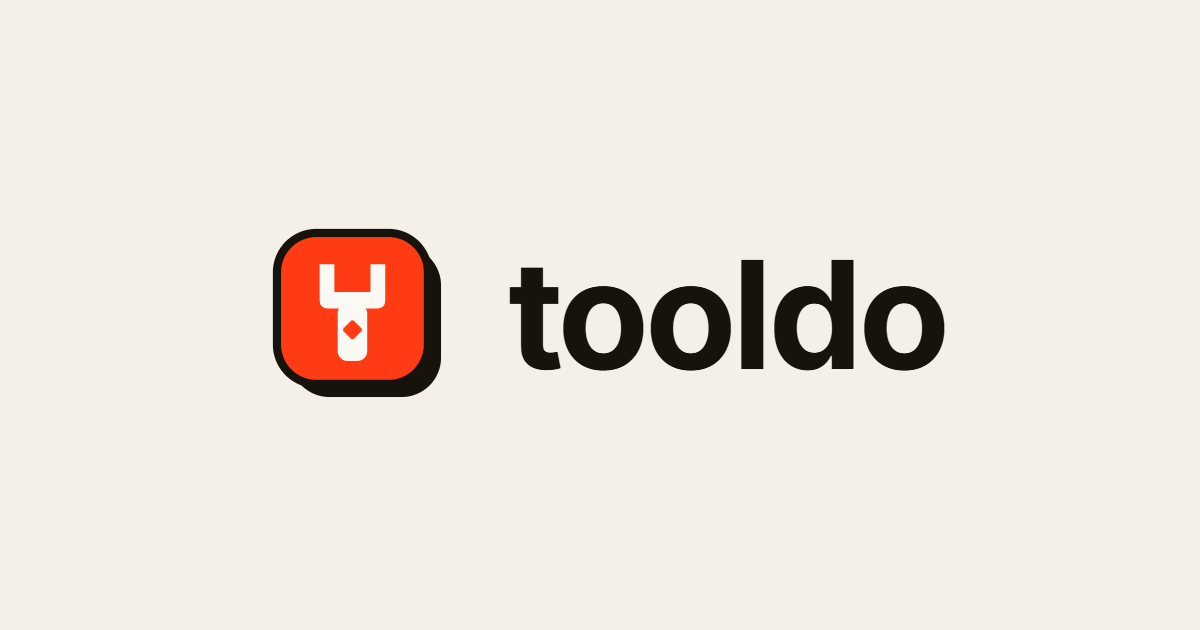
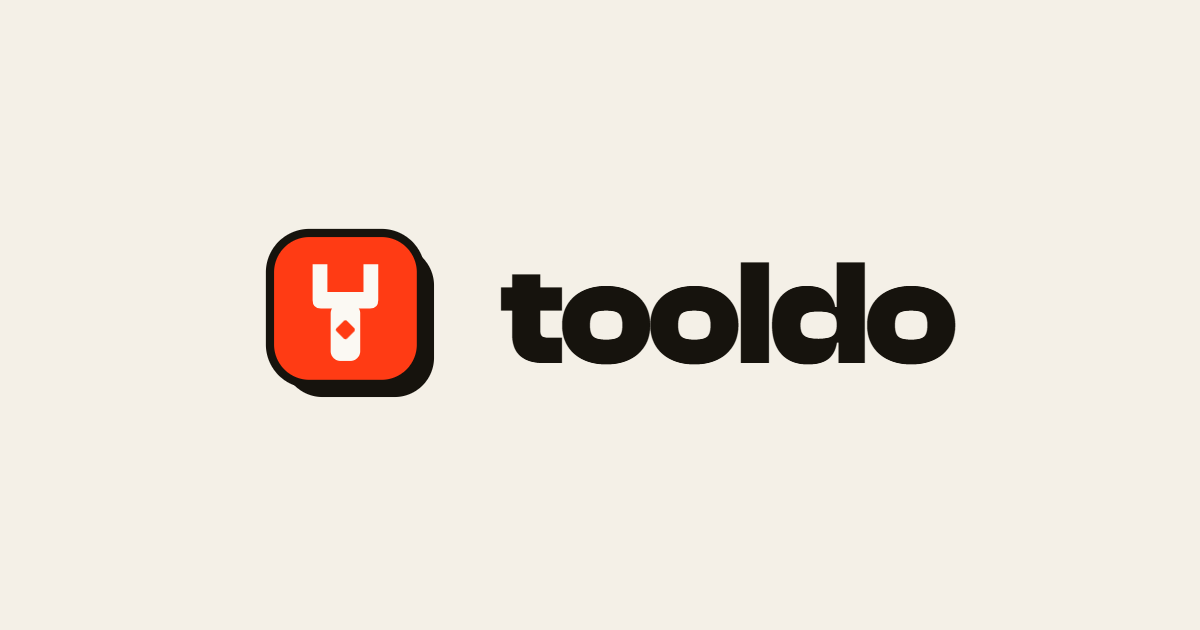
feat(brand): render the share card in Clash Display
The family is now on disk, so the wordmark on the share card is the real face
rather than the Inter fallback. Regenerated with `pnpm brand`.

The font itself stays out of git. Fontshare grants use of the family on the
web, which covers self-hosting it to render this site, but the EULA forbids
distributing the files and calls out uploading them to a public server — which
an open repository is. So it is git-ignored and fetched per checkout, and
public/fonts/README.md explains how. A raster made with the font, like the
share card, is explicitly permitted and can be committed.

The archive also unpacked forty files of OTF, EOT and TTF into public/, which
the build would have published. Only the variable woff2 the site actually
loads is kept; the rest moved out to the Desktop.

diff --git a/public/fonts/README.md b/public/fonts/README.md
@@ -5,19 +5,27 @@ runtime, so the CSP stays tight and no visitor request leaks to a third party.
 
 | Face | Role | Licence | In this repo |
 |---|---|---|---|
-| Clash Display | Headings, button labels | [Fontshare](https://www.fontshare.com/licenses/itf-ffl) | No — fetch it once, see below |
+| Clash Display | Headings, button labels | [Fontshare EULA](https://www.fontshare.com/licenses/itf-ffl) | No — fetch it once, see below |
 | Inter | UI and body | SIL OFL 1.1 | Yes |
 | JetBrains Mono | Code, data, eyebrows | SIL OFL 1.1 | Yes |
 
-## Fetching Clash Display
+## Why Clash Display isn't committed
 
-The Fontshare licence covers using and self-hosting the family, but not
-redistributing the font files, so it isn't committed here. Download it once:
+The Fontshare EULA grants use of the family in any medium including the web, and
+self-hosting it to render this site is exactly what it's for. But §02 forbids
+distributing the files, naming "uploading them in a public server" specifically — and
+a public repository is that. So the file is git-ignored rather than committed, and
+every checkout fetches its own copy.
+
+That does mean a build from a clean checkout has no Clash Display and falls back to the
+system sans. Headings still render; they just aren't wearing the brand face yet.
+
+## Fetching it
 
 1. Open <https://www.fontshare.com/fonts/clash-display> and download the family.
-2. Take the **variable** WOFF2 from the archive.
-3. Save it in this folder as `clash-display-variable.woff2`.
+2. Take `Fonts/WEB/fonts/ClashDisplay-Variable.woff2` from the archive.
+3. Save it here as `clash-display-variable.woff2`.
+4. Run `pnpm brand` to regenerate the share card with the real wordmark.
 
-Until then headings fall back to the system sans — the site works, it just isn't
-wearing its own face yet. `src/design-system/fonts.css` declares the weight axis as
-`400 700`; Clash Display has no heavier weight, so map any 800/900 heading to 700.
+`src/design-system/fonts.css` declares the weight axis as `400 700`. Clash Display has
+no heavier weight, so map any 800 or 900 heading down to 700.
